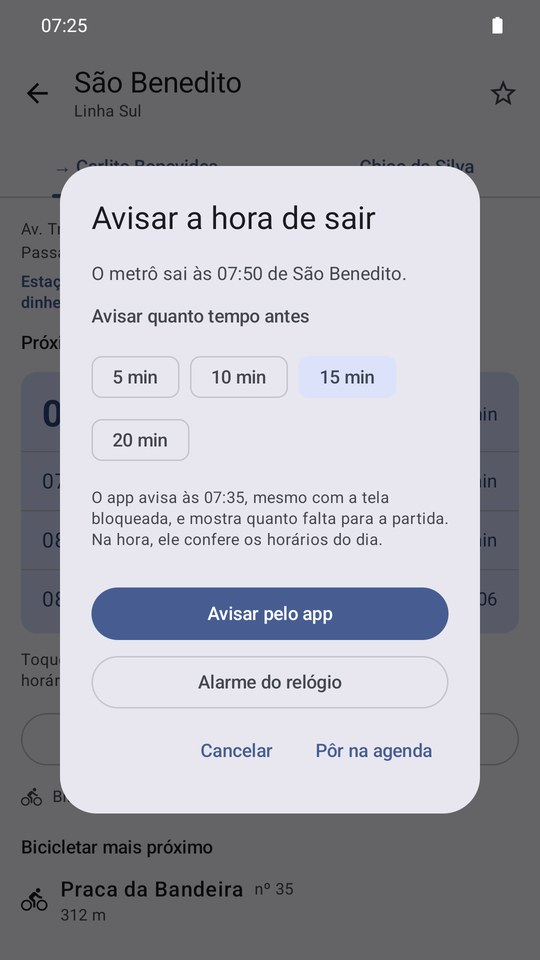
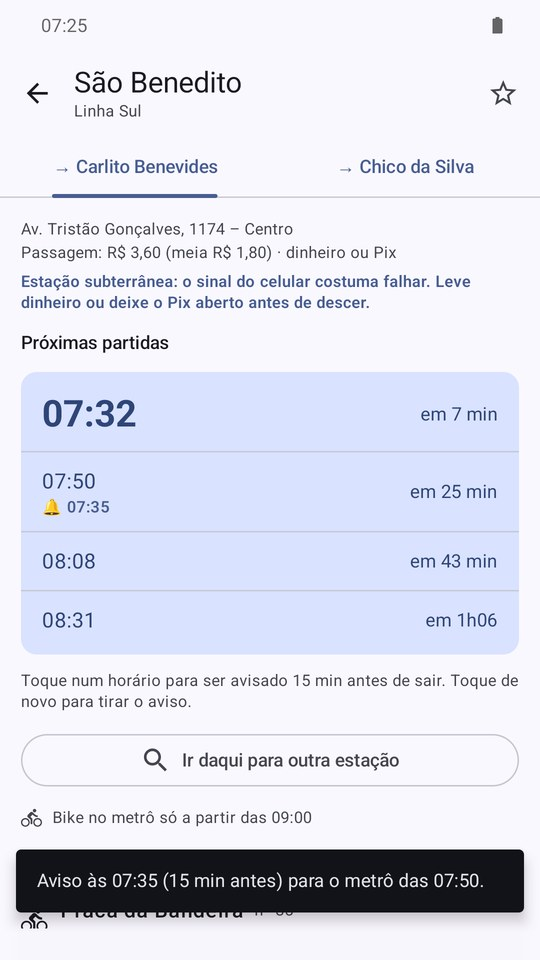
Loja, F-Droid e página: aviso só pelo app; captura 5 com o toque no horário

diff --git a/docs/index.html b/docs/index.html
@@ -160,7 +160,7 @@
       <figure><img src="img/tela-2.jpg" alt="Horários de uma estação, com a integração com a Linha Nordeste" loading="lazy"><figcaption>Todos os horários</figcaption></figure>
       <figure><img src="img/tela-3.jpg" alt="Modo viagem com o aviso de descida" loading="lazy"><figcaption>Aviso para descer</figcaption></figure>
       <figure><img src="img/tela-6.jpg" alt="Roteiro de São Benedito a Papicu, com integração entre a Linha Sul e a Linha Nordeste" loading="lazy"><figcaption>Roteiro com integração</figcaption></figure>
-      <figure><img src="img/tela-5.jpg" alt="Janela Avisar a hora de sair, com a antecedência e os botões Avisar pelo app, Alarme do relógio e Pôr na agenda" loading="lazy"><figcaption>Aviso da hora de sair</figcaption></figure>
+      <figure><img src="img/tela-5.jpg" alt="Horários de uma estação com o aviso da hora de sair marcado num toque, com o sininho" loading="lazy"><figcaption>Aviso da hora de sair</figcaption></figure>
       <figure><img src="img/tela-7.jpg" alt="Escolha entre ir direto ou sentado pelo terminal" loading="lazy"><figcaption>Ir sentado</figcaption></figure>
     </div>
   </section>

diff --git a/tools/play/loja.md b/tools/play/loja.md
@@ -36,7 +36,7 @@ Que horas passa o próximo metrô? Abra o app e veja a estação mais perto de v
 • Próxima partida da estação mais perto, pelo GPS, com as outras linhas que passam a até 3 km.
 • Para onde você vai?: escolha o destino e veja o roteiro, na mesma linha ou com integração, saindo agora ou no horário que você escolher, com os outros horários e a hora de chegada.
 • Modo viagem: escolha o destino e guarde o celular. O app acompanha a viagem estação por estação, mesmo com a tela desligada, e avisa antes de você descer — com notificação, vibração e, se quiser, voz.
-• Hora de sair: toque num horário e o app avisa na hora certa, mesmo com a tela bloqueada, mostrando quanto falta para a partida. Ou crie um alarme no relógio, ou ponha na agenda.
+• Hora de sair: toque num horário e o app avisa na hora certa, mesmo com a tela bloqueada, mostrando quanto falta para a partida.
 • Rotinas: salve o trajeto do dia a dia e o app avisa sozinho nos dias marcados, com os horários do dia (no domingo sem metrô, não avisa).
 • Integração entre linhas: em Parangaba, Chico da Silva e Expedicionários, o próximo metrô ou VLT da outra linha que ainda dá para pegar, e se a integração é paga ou gratuita.
 • Bike no metrô: se dá para embarcar com bicicleta agora, pelas regras do Metrofor, e a estação do Bicicletar mais perto.

diff --git a/tools/video/README.md b/tools/video/README.md
@@ -74,7 +74,8 @@ As telas vêm do emulador Android, com o sistema em pt-BR
   caber inteira (depois, `wm size reset`). O ícone de GPS da barra de status e a
   barra de gestos foram cobertos com a cor do fundo, com Pillow.
   **Na 1.61** a 5 (janela "Avisar a hora de sair", partida das 07:50 em São
-  Benedito, 15 min) foi refeita do mesmo jeito. Como o emulador já tinha a grade
+  Benedito, 15 min) foi refeita do mesmo jeito, e **na 1.63** de novo (o toque no
+  07:50 já marcando o aviso, com o sininho e a confirmação embaixo). Como o emulador já tinha a grade
   de Finados (02/11) como a de dia útil, `no_backup/schedules/weekday.db` foi
   trocado pelo `no_backup/metrofor.db` (a grade de dia útil do APK, com os mesmos
   horários de 29/10) e `date_weekday`/`synced_at_weekday` de
